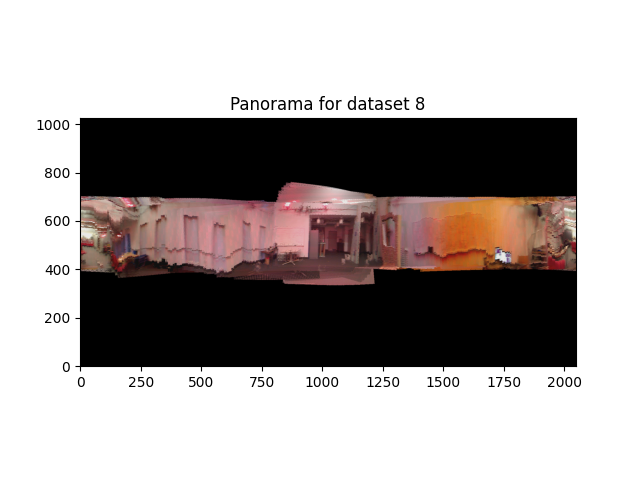
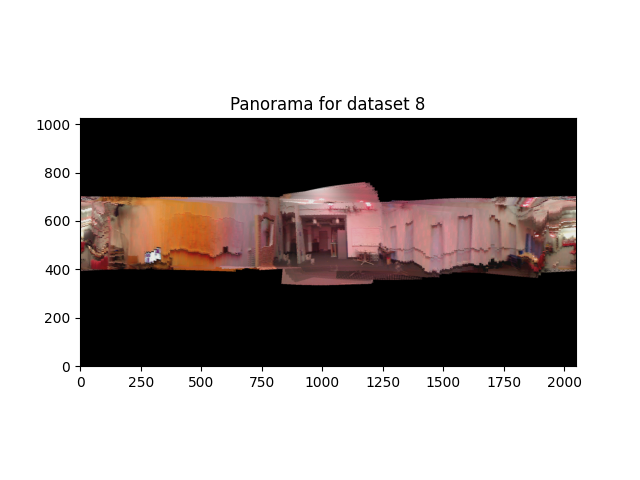
fix

Changed region(s): [[0.125, 0.375, 0.9062, 0.5938]]

diff --git a/Orientation_Tracking/code/orientation_track_&_panorama.py b/Orientation_Tracking/code/orientation_track_&_panorama.py
@@ -20,7 +20,7 @@ def read_data(fname):
       d = pickle.load(f, encoding='latin1')  # needed for python 3
   return d
 
-dataset="9"
+dataset="8"
 ifile = "data/imu/imuRaw" + dataset + ".p"
 vfile = "data/vicon/viconRot" + dataset + ".p"
 
@@ -106,7 +106,7 @@ ax[2].legend()
 
 plt.tight_layout()
 plt.savefig("fig/Measure_vs_Truth_Euler_" + dataset + ".png")
-plt.show()
+# plt.show()
 
 def inv(q):
   tmp = q.clone()
@@ -142,7 +142,7 @@ ax[2].legend()
 
 plt.tight_layout()
 plt.savefig("fig/Measure_vs_Truth_Acc_" + dataset + ".png")
-plt.show()
+# plt.show()
 
 
 
@@ -285,9 +285,8 @@ def create_panorama(images, image_timestamps, orientations, orientation_timestam
         orientation_idx = np.searchsorted(orientation_timestamps, image_time, side='right') - 1
         if orientation_idx < 0:
             orientation_idx = 0
-
+          
         R = orientations[orientation_idx]
-
         H, W = image.shape[:2]
 
         # Create a grid of pixel coordinates
@@ -303,15 +302,10 @@ def create_panorama(images, image_timestamps, orientations, orientation_timestam
         z = np.sin(phi)
 
         # Stack into a (3, H*W) matrix for vectorized rotation
-        xyz = np.stack([x, y, z], axis=0).reshape(3, -1)
+        xyz = np.stack([x, -y, z], axis=0).reshape(3, -1)
 
         # Rotate to the world frame using the rotation matrix R
-        adjustment_R = np.array([
-            [1, 0, 0],  
-            [0, -1, 0],  
-            [0, 0, 1]   
-        ])
-        xyz_world = R @ (adjustment_R @ xyz)
+        xyz_world = R @ xyz
 
         # Convert back to spherical coordinates
         x_w, y_w, z_w = xyz_world
@@ -319,7 +313,7 @@ def create_panorama(images, image_timestamps, orientations, orientation_timestam
         phi_w = np.arcsin(z_w).numpy()
 
         # Map spherical coordinates to panorama coordinates
-        panorama_x = ((lambda_w + np.pi) / (2 * np.pi) * panorama_width).astype(int)
+        panorama_x = ((-lambda_w + np.pi) / (2 * np.pi) * panorama_width).astype(int)
         panorama_y = ((phi_w + np.pi / 2) / np.pi * panorama_height).astype(int)
 
         # Clip coordinates to ensure they are within the panorama bounds
@@ -345,5 +339,4 @@ plt.show()
 plt.figure()
 plt.imshow(panorama_true, origin='lower')
 plt.title("Panorama for dataset " + str(dataset))
-# plt.savefig("fig/Panorama_" + dataset + ".png")
 plt.show()

diff --git a/Orientation_Tracking/code/orientation_track_&_panorama_test.py b/Orientation_Tracking/code/orientation_track_&_panorama_test.py
@@ -20,7 +20,7 @@ def read_data(fname):
       d = pickle.load(f, encoding='latin1')  # needed for python 3
   return d
 
-dataset="11"
+dataset="10"
 ifile = "data/imu/imuRaw" + dataset + ".p"
 vfile = "data/vicon/viconRot" + dataset + ".p"
 
@@ -252,10 +252,6 @@ plt.savefig("fig/Measure_vs_Optm_Euler_" + dataset + ".png")
 plt.show()
 
 
-
-
-
-
 cfile = "data/cam/cam" + dataset + ".p"
 camd = read_data(cfile)
 
@@ -273,8 +269,6 @@ def create_panorama(images, image_timestamps, orientations, orientation_timestam
     v_fov_rad = np.radians(v_fov)
 
     for idx, image in enumerate(images):
-        if idx > images.shape[0]/4*3:
-          break
         image = image.T
         image_time = image_timestamps[idx]
         orientation_idx = np.searchsorted(orientation_timestamps, image_time, side='right') - 1
@@ -298,15 +292,10 @@ def create_panorama(images, image_timestamps, orientations, orientation_timestam
         z = np.sin(phi)
 
         # Stack into a (3, H*W) matrix for vectorized rotation
-        xyz = np.stack([x, y, z], axis=0).reshape(3, -1)
+        xyz = np.stack([x, -y, z], axis=0).reshape(3, -1)
 
         # Rotate to the world frame using the rotation matrix R
-        adjustment_R = np.array([
-            [1, 0, 0],  
-            [0, -1, 0],  
-            [0, 0, 1]   
-        ])
-        xyz_world = R @ (adjustment_R @ xyz)
+        xyz_world = R @ xyz
 
         # Convert back to spherical coordinates
         x_w, y_w, z_w = xyz_world
@@ -314,7 +303,7 @@ def create_panorama(images, image_timestamps, orientations, orientation_timestam
         phi_w = np.arcsin(z_w).numpy()
 
         # Map spherical coordinates to panorama coordinates
-        panorama_x = ((lambda_w + np.pi) / (2 * np.pi) * panorama_width).astype(int)
+        panorama_x = ((-lambda_w + np.pi) / (2 * np.pi) * panorama_width).astype(int)
         panorama_y = ((phi_w + np.pi / 2) / np.pi * panorama_height).astype(int)
 
         # Clip coordinates to ensure they are within the panorama bounds

diff --git a/Orientation_Tracking/code/rotplot.py b/Orientation_Tracking/code/rotplot.py
@@ -47,10 +47,10 @@ def rotplot(R,currentAxes=None):
 
 
 # Example usage: Putting two rotations on one graph.
-REye = np.eye(3)
-myAxis = rotplot(REye)
-RTurn = np.array([[np.cos(np.pi/2),0,np.sin(np.pi/2)],[0,1,0],[-np.sin(np.pi/2),0,np.cos(np.pi/2)]])
-rotplot(RTurn,myAxis)
-plt.show()
+# REye = np.eye(3)
+# myAxis = rotplot(REye)
+# RTurn = np.array([[np.cos(np.pi/2),0,np.sin(np.pi/2)],[0,1,0],[-np.sin(np.pi/2),0,np.cos(np.pi/2)]])
+# rotplot(RTurn,myAxis)
+# plt.show()
 
 
